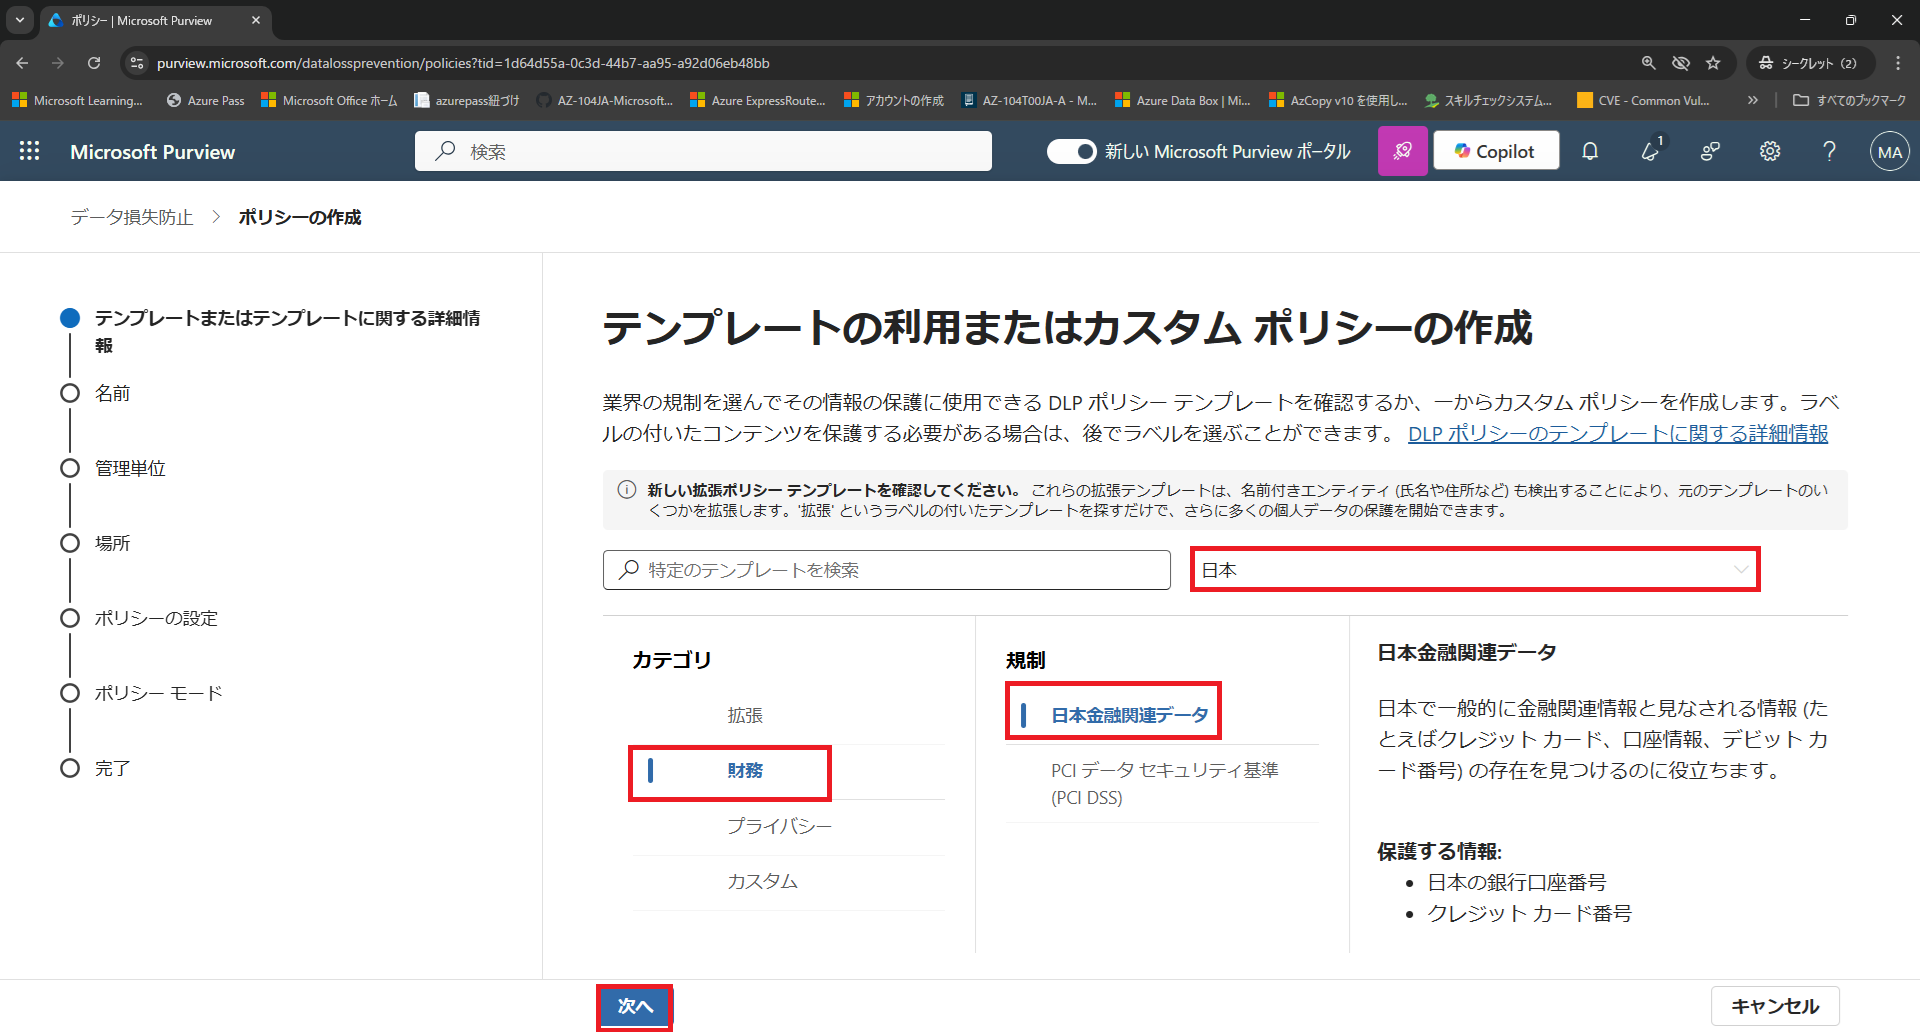
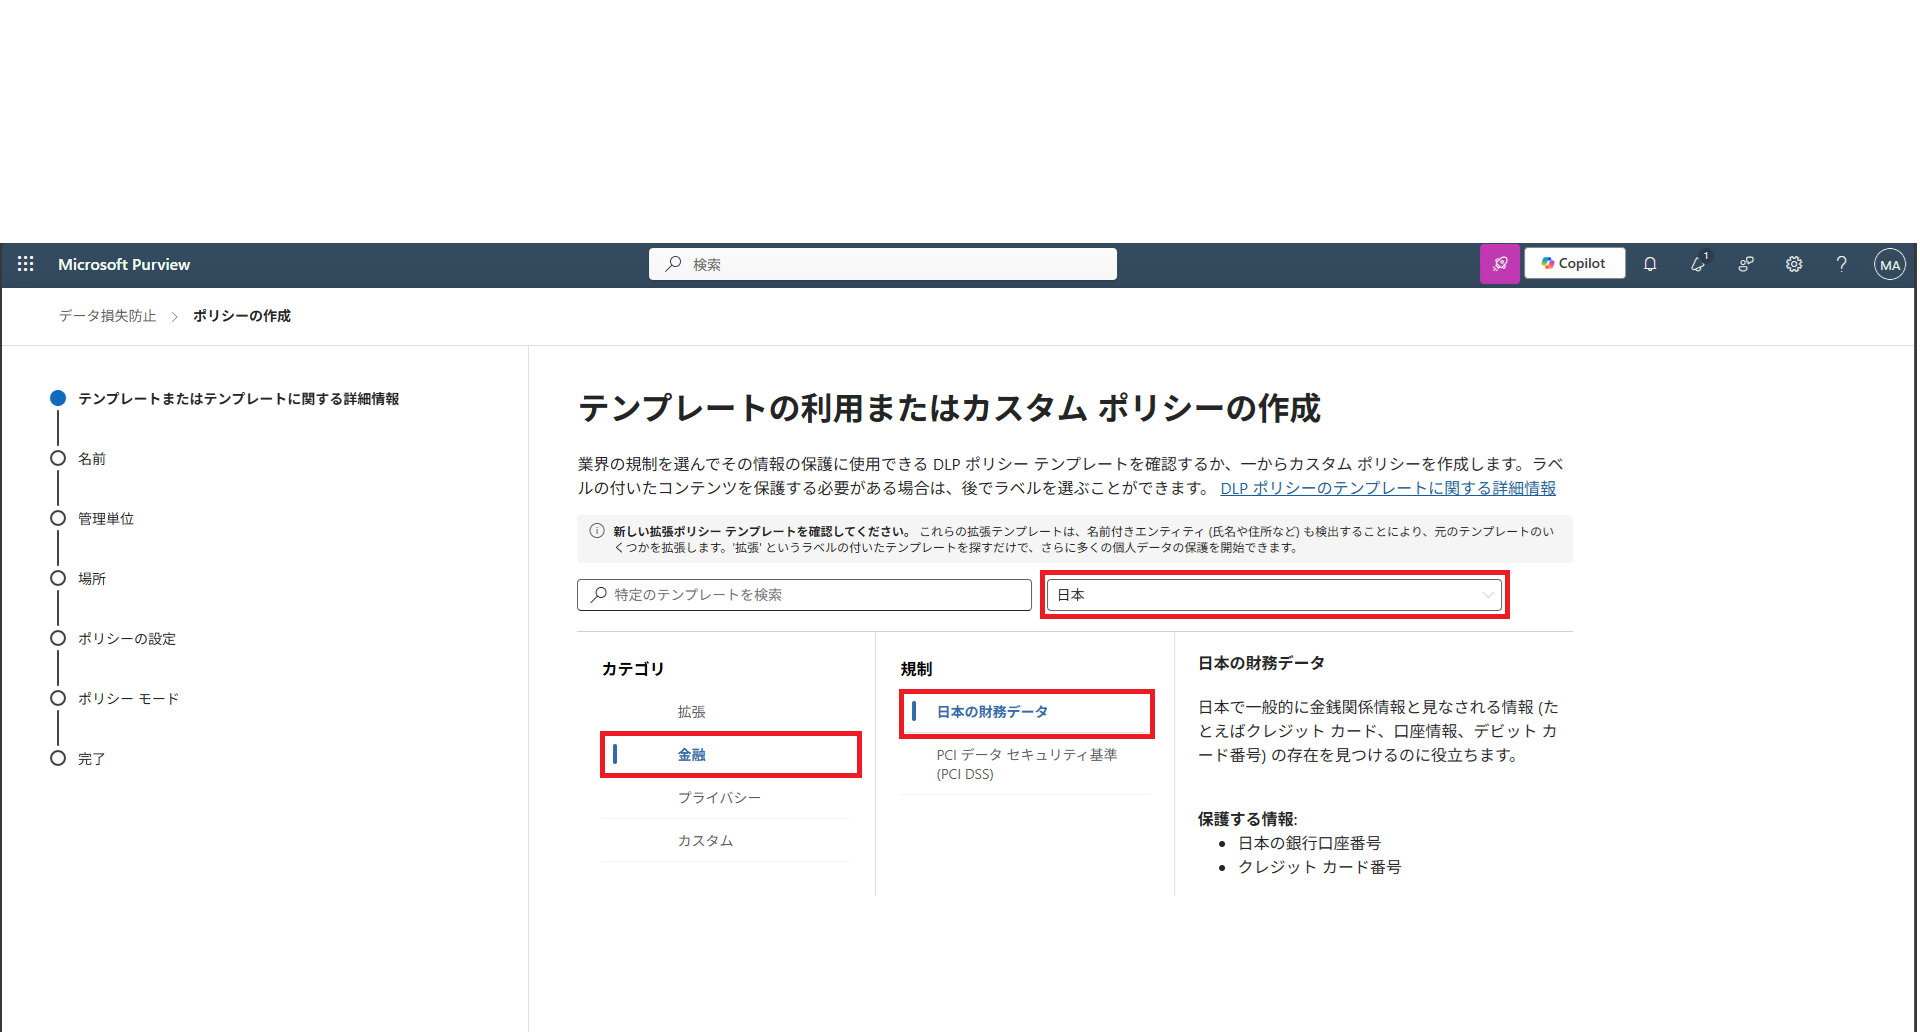
update

diff --git a/LabManual/Lab03_Microsoft_Purviewを探索する.md b/LabManual/Lab03_Microsoft_Purviewを探索する.md
@@ -228,7 +228,7 @@
 
    ![](./media/lab4-19.png)
 
-4. [財務]をクリックし、さらに[日本金融関連データ]をクリックし、画面下にある[次へ]をクリックします。
+4. [金融]をクリックし、さらに[日本の財務データ]をクリックし、画面下にある[次へ]をクリックします。
 
 5. [DLP ポリシーの名前の設定]は、変更せずに画面下にある[次へ]をクリックします。
 
